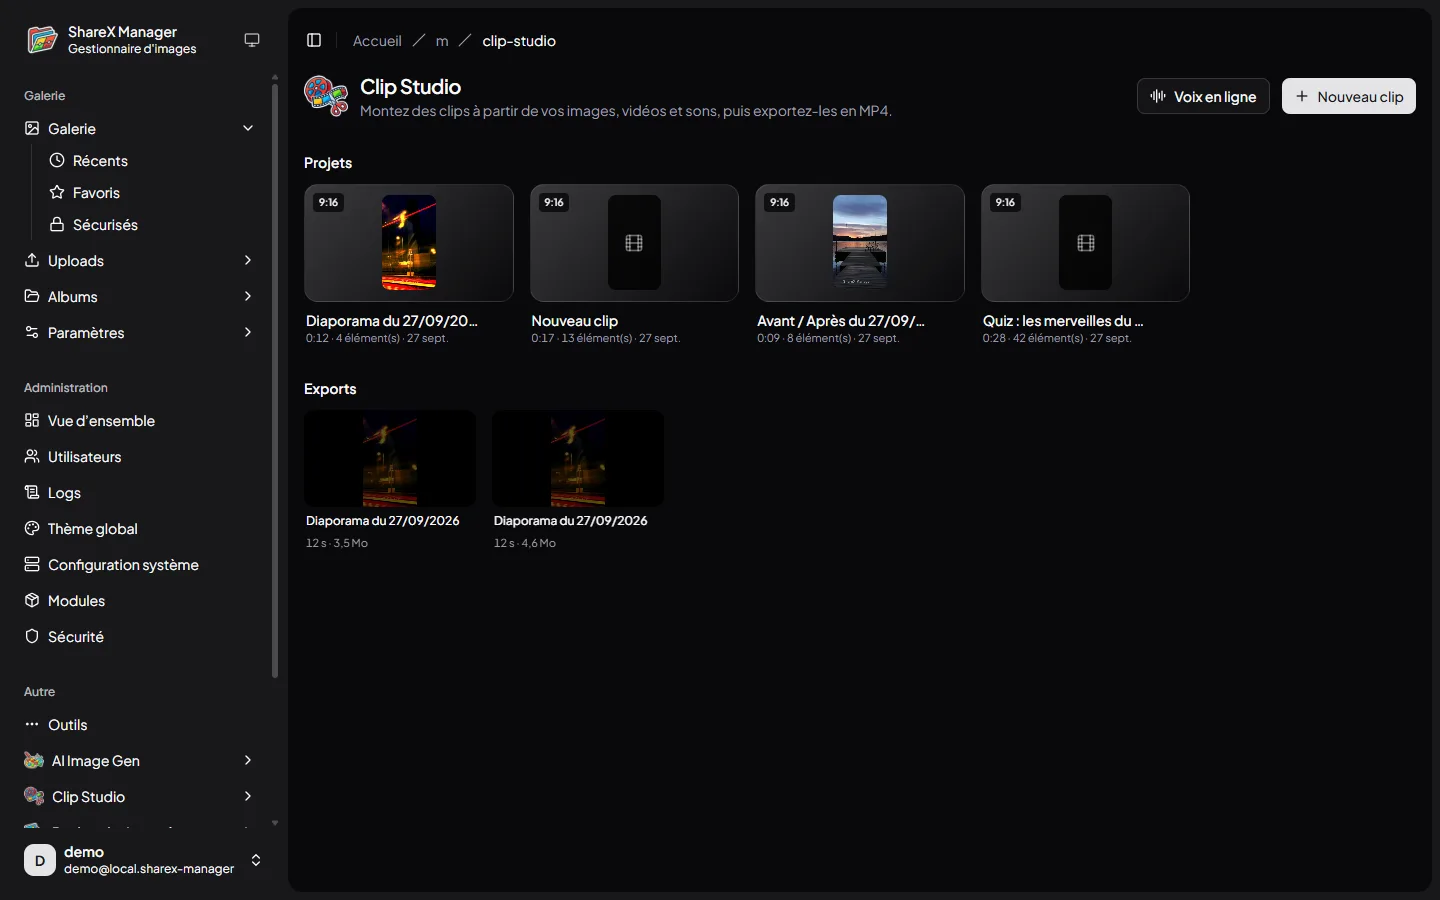
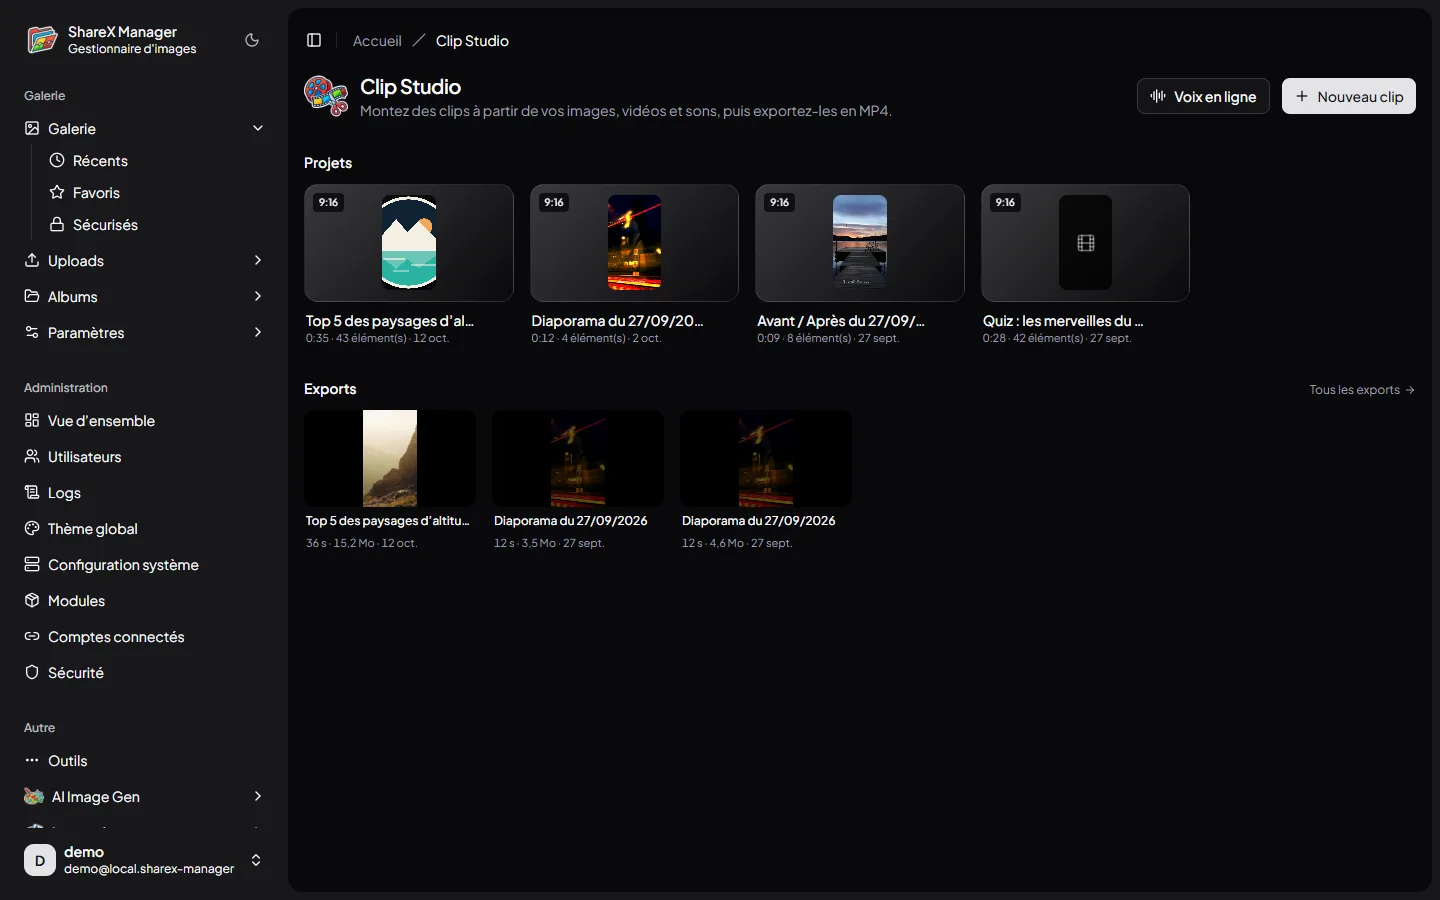
docs: captures et présentation de l’image de marque, des comptes connectés et des exports
Nouvelles captures (instance de démonstration, marque inventée) : images
de marque, comptes connectés, sélecteur d’animations, onglet Trouver,
écrans Exporter et Publier, fiche d’un export, filigrane par la marque,
vues sur téléphone. README et site GitHub Pages présentent ces
nouveautés ; défilement horizontal du site corrigé à 390 et 1024 px.

diff --git a/docs/website/index.html b/docs/website/index.html
@@ -128,6 +128,7 @@
 
     /* Le flux : le texte d'un côté, la capture de l'autre. */
     .split { display: grid; gap: 48px; align-items: center; }
+    .split > * { min-width: 0; }
     .split h2 { font-size: clamp(2.25rem, 4.6vw, 3.5rem); }
     .split .lead { margin-top: 20px; }
     .points { list-style: none; margin: 32px 0 0; padding: 0; display: grid; gap: 14px; }
@@ -215,6 +216,7 @@
   <svg width="0" height="0" style="position:absolute" aria-hidden="true">
     <symbol id="arrow" viewBox="0 0 24 24" fill="none" stroke="currentColor" stroke-width="2" stroke-linecap="round" stroke-linejoin="round"><path d="M5 12h14M13 6l6 6-6 6" /></symbol>
     <symbol id="check" viewBox="0 0 24 24" fill="none" stroke="currentColor" stroke-width="2" stroke-linecap="round" stroke-linejoin="round"><path d="M20 6 9 17l-5-5" /></symbol>
+    <symbol id="send" viewBox="0 0 24 24" fill="none" stroke="currentColor" stroke-width="1.8" stroke-linecap="round" stroke-linejoin="round"><path d="M14.536 21.686a.5.5 0 0 0 .937-.024l6.5-19a.496.496 0 0 0-.635-.635l-19 6.5a.5.5 0 0 0-.024.937l7.93 3.18a2 2 0 0 1 1.112 1.11z" /><path d="m21.854 2.147-10.94 10.939" /></symbol>
     <symbol id="seal" viewBox="0 0 24 24" fill="none" stroke="currentColor" stroke-width="1.8" stroke-linecap="round" stroke-linejoin="round"><path d="M3.85 8.62a4 4 0 0 1 4.78-4.77 4 4 0 0 1 6.74 0 4 4 0 0 1 4.78 4.78 4 4 0 0 1 0 6.74 4 4 0 0 1-4.77 4.78 4 4 0 0 1-6.75 0 4 4 0 0 1-4.78-4.77 4 4 0 0 1 0-6.76Z" /><path d="m9 12 2 2 4-4" /></symbol>
   </svg>
 
@@ -224,6 +226,7 @@
       <nav class="links" aria-label="Sections">
         <a href="#flux">Le flux</a>
         <a href="#modules">Modules</a>
+        <a href="#video">Vidéo</a>
         <a href="#apercu">Aperçu</a>
         <a href="#demarrer">Mise en route</a>
         <a href="#documentation">Documentation</a>
@@ -313,7 +316,7 @@
           <article class="tile side" data-reveal>
             <img src="img/module-clip-studio.png" alt="" width="72" height="72" loading="lazy" />
             <h3>Clip Studio</h3>
-            <p>Un éditeur de clips dans le navigateur&nbsp;: images, vidéos, textes animés, voix et musique.</p>
+            <p>Un éditeur de clips dans le navigateur&nbsp;: images, vidéos, textes animés, voix, musique, et une bibliothèque d’animations, de transitions et de mouvements de caméra.</p>
             <div class="tags">Timeline multipiste · Voix de synthèse · Export MP4</div>
           </article>
           <article class="tile half" data-reveal>
@@ -328,11 +331,64 @@
             <p>Lisez ce qu’un fichier déclare de lui-même&nbsp;: généré par IA ou non, signature, métadonnées. Ouvert sans compte.</p>
             <div class="tags">Manifeste C2PA · EXIF et XMP · Version sans métadonnées</div>
           </article>
+          <article class="tile half" data-reveal>
+            <img src="img/module-brand-kit.png" alt="" width="72" height="72" loading="lazy" />
+            <h3>Image de marque</h3>
+            <p>La direction artistique d’une chaîne en une fiche&nbsp;: palette, polices, logos, mascotte, filigrane, carton de fin et ton. Les clips et les captures la suivent.</p>
+            <div class="tags">Formats d’une chaîne en PNG · Assistant de création · Export ZIP</div>
+          </article>
+          <article class="tile half" data-reveal>
+            <svg class="glyph"><use href="#send" /></svg>
+            <h3>Comptes connectés</h3>
+            <p>Reliez vos comptes de publication, autant que vous voulez, et publiez un clip vers plusieurs d’entre eux d’un seul geste.</p>
+            <div class="tags">YouTube · Facebook · Instagram · Threads · X annoncé</div>
+          </article>
         </div>
       </div>
     </section>
 
-    <section id="apercu" style="padding-top:0">
+    <section id="video" style="padding-top:0">
+      <div class="container split">
+        <div data-reveal>
+          <p class="kicker">Clip Studio</p>
+          <h2 class="display">De l’idée au clip publié</h2>
+          <p class="lead">Un modèle ou l’assistant pose le montage, l’image de marque l’habille, et l’éditeur laisse tout reprendre&nbsp;: textes, animations, voix, musique. Le rendu se fait dans le navigateur.</p>
+          <ul class="points">
+            <li><svg><use href="#check" /></svg> <span>Animations d’entrée, de sortie et de mise en avant, textes lettre par lettre ou mot par mot, aperçu au survol</span></li>
+            <li><svg><use href="#check" /></svg> <span>34 transitions, 19 mouvements de caméra et 8 effets de plan</span></li>
+            <li><svg><use href="#check" /></svg> <span>Des images qui existent d’abord&nbsp;: banque libre, web et icônes officielles, avec leur licence</span></li>
+            <li><svg><use href="#check" /></svg> <span>Un script dont les faits sont vérifiés, sources rangées avec le projet</span></li>
+          </ul>
+        </div>
+        <div class="shot" data-reveal>
+          <img src="img/clip-studio-animations.webp" alt="Le sélecteur d’animations de Clip Studio, rangé par catégorie" width="1440" height="900" loading="lazy" />
+        </div>
+      </div>
+      <div class="container shot" style="margin-top:56px" data-reveal>
+        <img src="img/clip-studio-rendu.webp" alt="Cinq images d’un clip rendu avec une image de marque&nbsp;: titre, classement et carton de fin" width="1440" height="510" loading="lazy" />
+      </div>
+    </section>
+
+    <section class="band" id="publication">
+      <div class="container split">
+        <div data-reveal>
+          <p class="kicker">Publication</p>
+          <h2 class="display">Un export, tous vos comptes</h2>
+          <p class="lead">Chaque clip rendu garde sa fiche&nbsp;: couverture, sous-titres, crédits et textes de publication, communs ou propres à chaque service. Il part ensuite vers YouTube, Facebook, Instagram ou Threads, tout de suite ou à l’heure choisie.</p>
+          <ul class="points">
+            <li><svg><use href="#check" /></svg> <span>Textes préremplis par l’image de marque, aperçu à la manière du service</span></li>
+            <li><svg><use href="#check" /></svg> <span>Envoi repris après une coupure, quotas suivis, premier commentaire posé après la mise en ligne</span></li>
+            <li><svg><use href="#check" /></svg> <span>Vos propres applications Google et Meta, configurées une fois</span></li>
+          </ul>
+          <a class="pill on-photo" href="https://github.com/pedrokarim/sharex-manager/wiki/Comptes-connect%C3%A9s">Configurer les comptes <svg><use href="#arrow" /></svg></a>
+        </div>
+        <div class="shot" data-reveal>
+          <img src="img/clip-studio-publier.webp" alt="L’écran Publier de Clip Studio&nbsp;: comptes, textes par service et aperçu" width="1440" height="900" loading="lazy" />
+        </div>
+      </div>
+    </section>
+
+    <section id="apercu">
       <div class="wide">
         <div class="container head" style="padding-inline:0" data-reveal>
           <div>
@@ -347,6 +403,12 @@
           <figure data-reveal><img src="img/statistiques.webp" alt="Statistiques des envois" width="1440" height="900" loading="lazy" /><figcaption><strong>Statistiques.</strong> Envois par jour, par méthode et par clé.</figcaption></figure>
           <figure data-reveal><img src="img/cles-api.webp" alt="Gestion des clés d’API" width="1440" height="900" loading="lazy" /><figcaption><strong>Clés d’API.</strong> Une clé par machine, révocable.</figcaption></figure>
           <figure data-reveal><img src="img/clip-studio-editeur.webp" alt="Éditeur de Clip Studio" width="1440" height="900" loading="lazy" /><figcaption><strong>Clip Studio.</strong> Timeline, voix, musique, export MP4.</figcaption></figure>
+          <figure data-reveal><img src="img/clip-studio-trouver.webp" alt="Onglet Trouver du panneau Médias de Clip Studio" width="1440" height="900" loading="lazy" /><figcaption><strong>Trouver une image.</strong> Banque libre, web ou icône officielle, licence visible.</figcaption></figure>
+          <figure data-reveal><img src="img/clip-studio-exporter.webp" alt="Écran Exporter de Clip Studio" width="1440" height="900" loading="lazy" /><figcaption><strong>Exporter.</strong> Vérifications avant le rendu, volume normalisé, sous-titres.</figcaption></figure>
+          <figure data-reveal><img src="img/clip-studio-export-fiche.webp" alt="Fiche d’un export et ses textes de publication" width="1440" height="900" loading="lazy" /><figcaption><strong>Fiche d’un export.</strong> Textes communs et variantes par service.</figcaption></figure>
+          <figure data-reveal><img src="img/image-de-marque-video.webp" alt="Éditeur d’une image de marque, section Vidéo" width="1440" height="900" loading="lazy" /><figcaption><strong>Image de marque.</strong> Filigrane, carton de fin et formats de la chaîne.</figcaption></figure>
+          <figure data-reveal><img src="img/comptes-connectes.webp" alt="Page des comptes connectés" width="1440" height="900" loading="lazy" /><figcaption><strong>Comptes connectés.</strong> Plusieurs comptes par service, état de chacun.</figcaption></figure>
+          <figure data-reveal><img src="img/filigrane-marque.webp" alt="Filigrane posé avec le logo d’une image de marque" width="1440" height="900" loading="lazy" /><figcaption><strong>Filigrane.</strong> Le logo de la marque sur une capture, ou sur chaque envoi.</figcaption></figure>
           <figure data-reveal><img src="img/ai-image-gen.webp" alt="Studio AI Image Gen" width="1440" height="900" loading="lazy" /><figcaption><strong>AI Image Gen.</strong> Générer ou retoucher depuis une description.</figcaption></figure>
           <figure data-reveal><img src="img/recherche-inversee.webp" alt="Recherche inversée" width="1440" height="900" loading="lazy" /><figcaption><strong>Recherche inversée.</strong> Plusieurs moteurs, une seule image.</figcaption></figure>
           <figure data-reveal><img src="img/theme-global.webp" alt="Réglage du thème global" width="1440" height="900" loading="lazy" /><figcaption><strong>Thème global.</strong> Les couleurs du site, à partir de 42 palettes.</figcaption></figure>
@@ -385,7 +447,7 @@ docker compose up -d --build</pre>
             <p class="kicker">Documentation</p>
             <h2 class="display">Le guide complet vit dans le wiki</h2>
           </div>
-          <p class="lead">Installation, réglages, clients d’envoi, API et modules, pas à pas.</p>
+          <p class="lead">Installation, réglages, clients d’envoi, API, modules et publication, pas à pas.</p>
         </div>
         <div class="docs" data-reveal>
           <a href="https://github.com/pedrokarim/sharex-manager/wiki/Installation"><strong>Installation</strong><span>Bun, Docker, premier compte</span><svg><use href="#arrow" /></svg></a>
@@ -396,6 +458,9 @@ docker compose up -d --build</pre>
           <a href="https://github.com/pedrokarim/sharex-manager/wiki/Configuration-Linux"><strong>Linux</strong><span>Flameshot et fu</span><svg><use href="#arrow" /></svg></a>
           <a href="https://github.com/pedrokarim/sharex-manager/wiki/Application-mobile"><strong>Application mobile</strong><span>Android, configurée par QR code</span><svg><use href="#arrow" /></svg></a>
           <a href="https://github.com/pedrokarim/sharex-manager/wiki/Modules"><strong>Modules</strong><span>Studio IA, clips, recherche inversée</span><svg><use href="#arrow" /></svg></a>
+          <a href="https://github.com/pedrokarim/sharex-manager/wiki/Clip-Studio"><strong>Clip Studio</strong><span>Montage, animations, exports</span><svg><use href="#arrow" /></svg></a>
+          <a href="https://github.com/pedrokarim/sharex-manager/wiki/Image-de-marque"><strong>Image de marque</strong><span>Palette, logos, filigrane, publication</span><svg><use href="#arrow" /></svg></a>
+          <a href="https://github.com/pedrokarim/sharex-manager/wiki/Comptes-connect%C3%A9s"><strong>Comptes connectés</strong><span>Applications Google et Meta, publication</span><svg><use href="#arrow" /></svg></a>
           <a href="https://github.com/pedrokarim/sharex-manager/wiki/R%C3%A9f%C3%A9rence-API"><strong>Référence de l’API</strong><span>Envoi, fichiers, albums</span><svg><use href="#arrow" /></svg></a>
           <a href="https://github.com/pedrokarim/sharex-manager/wiki/D%C3%A9ploiement"><strong>Déploiement</strong><span>Docker, proxy, sauvegardes</span><svg><use href="#arrow" /></svg></a>
           <a href="https://github.com/pedrokarim/sharex-manager/wiki/Architecture"><strong>Architecture</strong><span>Comment le code est rangé</span><svg><use href="#arrow" /></svg></a>

diff --git a/README.md b/README.md
@@ -35,16 +35,39 @@ miniatures et renvoie un lien public prêt à partager.
   générée pour ShareX (et Flameshot via `fu`).
 - **Historique et statistiques** des envois, par jour, par méthode et par clé.
 - **Modules** qui s’activent à la demande, chacun avec son logo :
-  - traitements automatiques à l’envoi : filigrane, redimensionnement,
-    recadrage ;
+  - traitements automatiques à l’envoi : filigrane (un texte, ou le logo
+    d’une image de marque), redimensionnement, recadrage ;
   - **AI Image Gen**, un studio de génération et de retouche d’images (agents
     CLI connectés comme Codex, ou clés API) ;
-  - **Clip Studio**, un éditeur de clips vidéo avec timeline, modèles (quiz,
-    top, diaporama), assistant IA, voix de synthèse locales, banque de
-    musique libre de droits et sous-titres animés, export MP4 dans le
-    navigateur ;
+  - **Clip Studio**, un éditeur de clips vidéo : timeline, modèles (quiz,
+    classement, diaporama, avant / après), voix de synthèse locales, banque
+    de musique libre de droits, sous-titres animés et rendu MP4 dans le
+    navigateur. Une bibliothèque d’animations (entrées, sorties, mises en
+    avant et boucles ; textes lettre par lettre, mot par mot ou ligne par
+    ligne), 34 transitions, 19 mouvements de caméra et 8 effets de plan se
+    choisissent dans l’éditeur, avec un aperçu animé. L’onglet « Trouver »
+    cherche des images libres (Openverse), sur le web ou parmi les icônes
+    officielles, licence et auteur à l’appui ;
+  - l’**assistant** de Clip Studio (avec Codex) écrit le script, cherche une
+    image qui existe avant d’en générer une, pose le logo officiel d’un jeu
+    ou d’une marque, et vérifie les faits du script avec leurs sources ;
+  - **Image de marque**, la direction artistique d’une chaîne : palette,
+    polices, styles de texte, logos, mascotte, filigrane, carton de fin, ton
+    et modèles de publication. Les modèles de Clip Studio et le filigrane
+    des captures la suivent ; les formats d’une chaîne (bannière YouTube,
+    avatar, en-tête X, couverture de short…) s’exportent en PNG ;
   - **Recherche inversée**, qui interroge plusieurs moteurs d’un coup
     (trace.moe, IQDB, SauceNAO, Google Lens, Yandex) et garde un historique.
+- **Exports et publication** : chaque clip rendu a sa fiche (couverture,
+  sous-titres `.srt`, crédits, volume mesuré) et ses textes de publication,
+  communs ou propres à chaque service, préremplis par l’image de marque. Il
+  part vers un ou plusieurs **comptes connectés** : YouTube, Facebook
+  (pages), Instagram (compte professionnel) et Threads ; X est annoncé.
+  Envoi repris après une coupure, programmation, quotas, premier
+  commentaire, sous-titres et couverture posés après la mise en ligne.
+  Chaque service demande de créer sa propre application (Google Cloud,
+  Meta for Developers) : la marche à suivre est dans
+  [le wiki](https://github.com/pedrokarim/sharex-manager/wiki/Comptes-connect%C3%A9s).
 - **Outils publics**, ouverts sans compte : « Origine d’une image » lit ce
   qu’un fichier déclare (manifeste C2PA, EXIF, XMP, paramètres de
   génération) sans rien enregistrer.
@@ -64,15 +87,31 @@ miniatures et renvoie un lien public prêt à partager.
 | ![Albums](docs/images/albums.webp) | ![Catalogue public](docs/images/catalogue-public.webp) |
 | **Statistiques** | **Clés API et configuration ShareX** |
 | ![Statistiques](docs/images/statistiques.webp) | ![Configuration ShareX](docs/images/configuration-sharex.webp) |
-| **Clip Studio** | **AI Image Gen** |
-| ![Éditeur Clip Studio](docs/images/clip-studio-editeur.webp) | ![AI Image Gen](docs/images/ai-image-gen.webp) |
+| **Clip Studio** | **Bibliothèque d’animations** |
+| ![Éditeur Clip Studio](docs/images/clip-studio-editeur.webp) | ![Sélecteur d’animations de Clip Studio](docs/images/clip-studio-animations.webp) |
+| **Trouver une image** | **Exporter** |
+| ![Onglet Trouver du panneau Médias](docs/images/clip-studio-trouver.webp) | ![Écran Exporter de Clip Studio](docs/images/clip-studio-exporter.webp) |
+| **Fiche d’un export** | **Publier** |
+| ![Fiche d’un export et ses textes de publication](docs/images/clip-studio-export-fiche.webp) | ![Écran Publier de Clip Studio](docs/images/clip-studio-publier.webp) |
+| **Image de marque** | **Éditeur d’une image de marque** |
+| ![Images de marque](docs/images/image-de-marque.webp) | ![Éditeur d’une image de marque](docs/images/image-de-marque-video.webp) |
+| **Comptes connectés** | **Connecter un compte** |
+| ![Comptes connectés](docs/images/comptes-connectes.webp) | ![Connecter un compte](docs/images/connecter-un-compte.webp) |
+| **Filigrane de la marque** | **AI Image Gen** |
+| ![Filigrane posé avec le logo d’une image de marque](docs/images/filigrane-marque.webp) | ![AI Image Gen](docs/images/ai-image-gen.webp) |
 | **Recherche inversée** | **Origine d’une image** |
 | ![Recherche inversée](docs/images/recherche-inversee.webp) | ![Origine d’une image](docs/images/origine-image.webp) |
 | **Modules** | **Thème global** |
 | ![Modules](docs/images/modules.webp) | ![Thème global](docs/images/theme-global.webp) |
 
+Un clip rendu par Clip Studio, avec l’image de marque inventée « Altitude
+Claire » de l’instance de test :
+
+![Cinq images d’un clip rendu : titre, classement et carton de fin](docs/images/clip-studio-rendu.webp)
+
 D’autres captures (thème clair, mobile, historique, préférences, connexion,
-administration) sont dans [`docs/images/`](docs/images/).
+administration, Publier et fiche d’un export sur téléphone) sont dans
+[`docs/images/`](docs/images/).
 
 ## Installation
 
